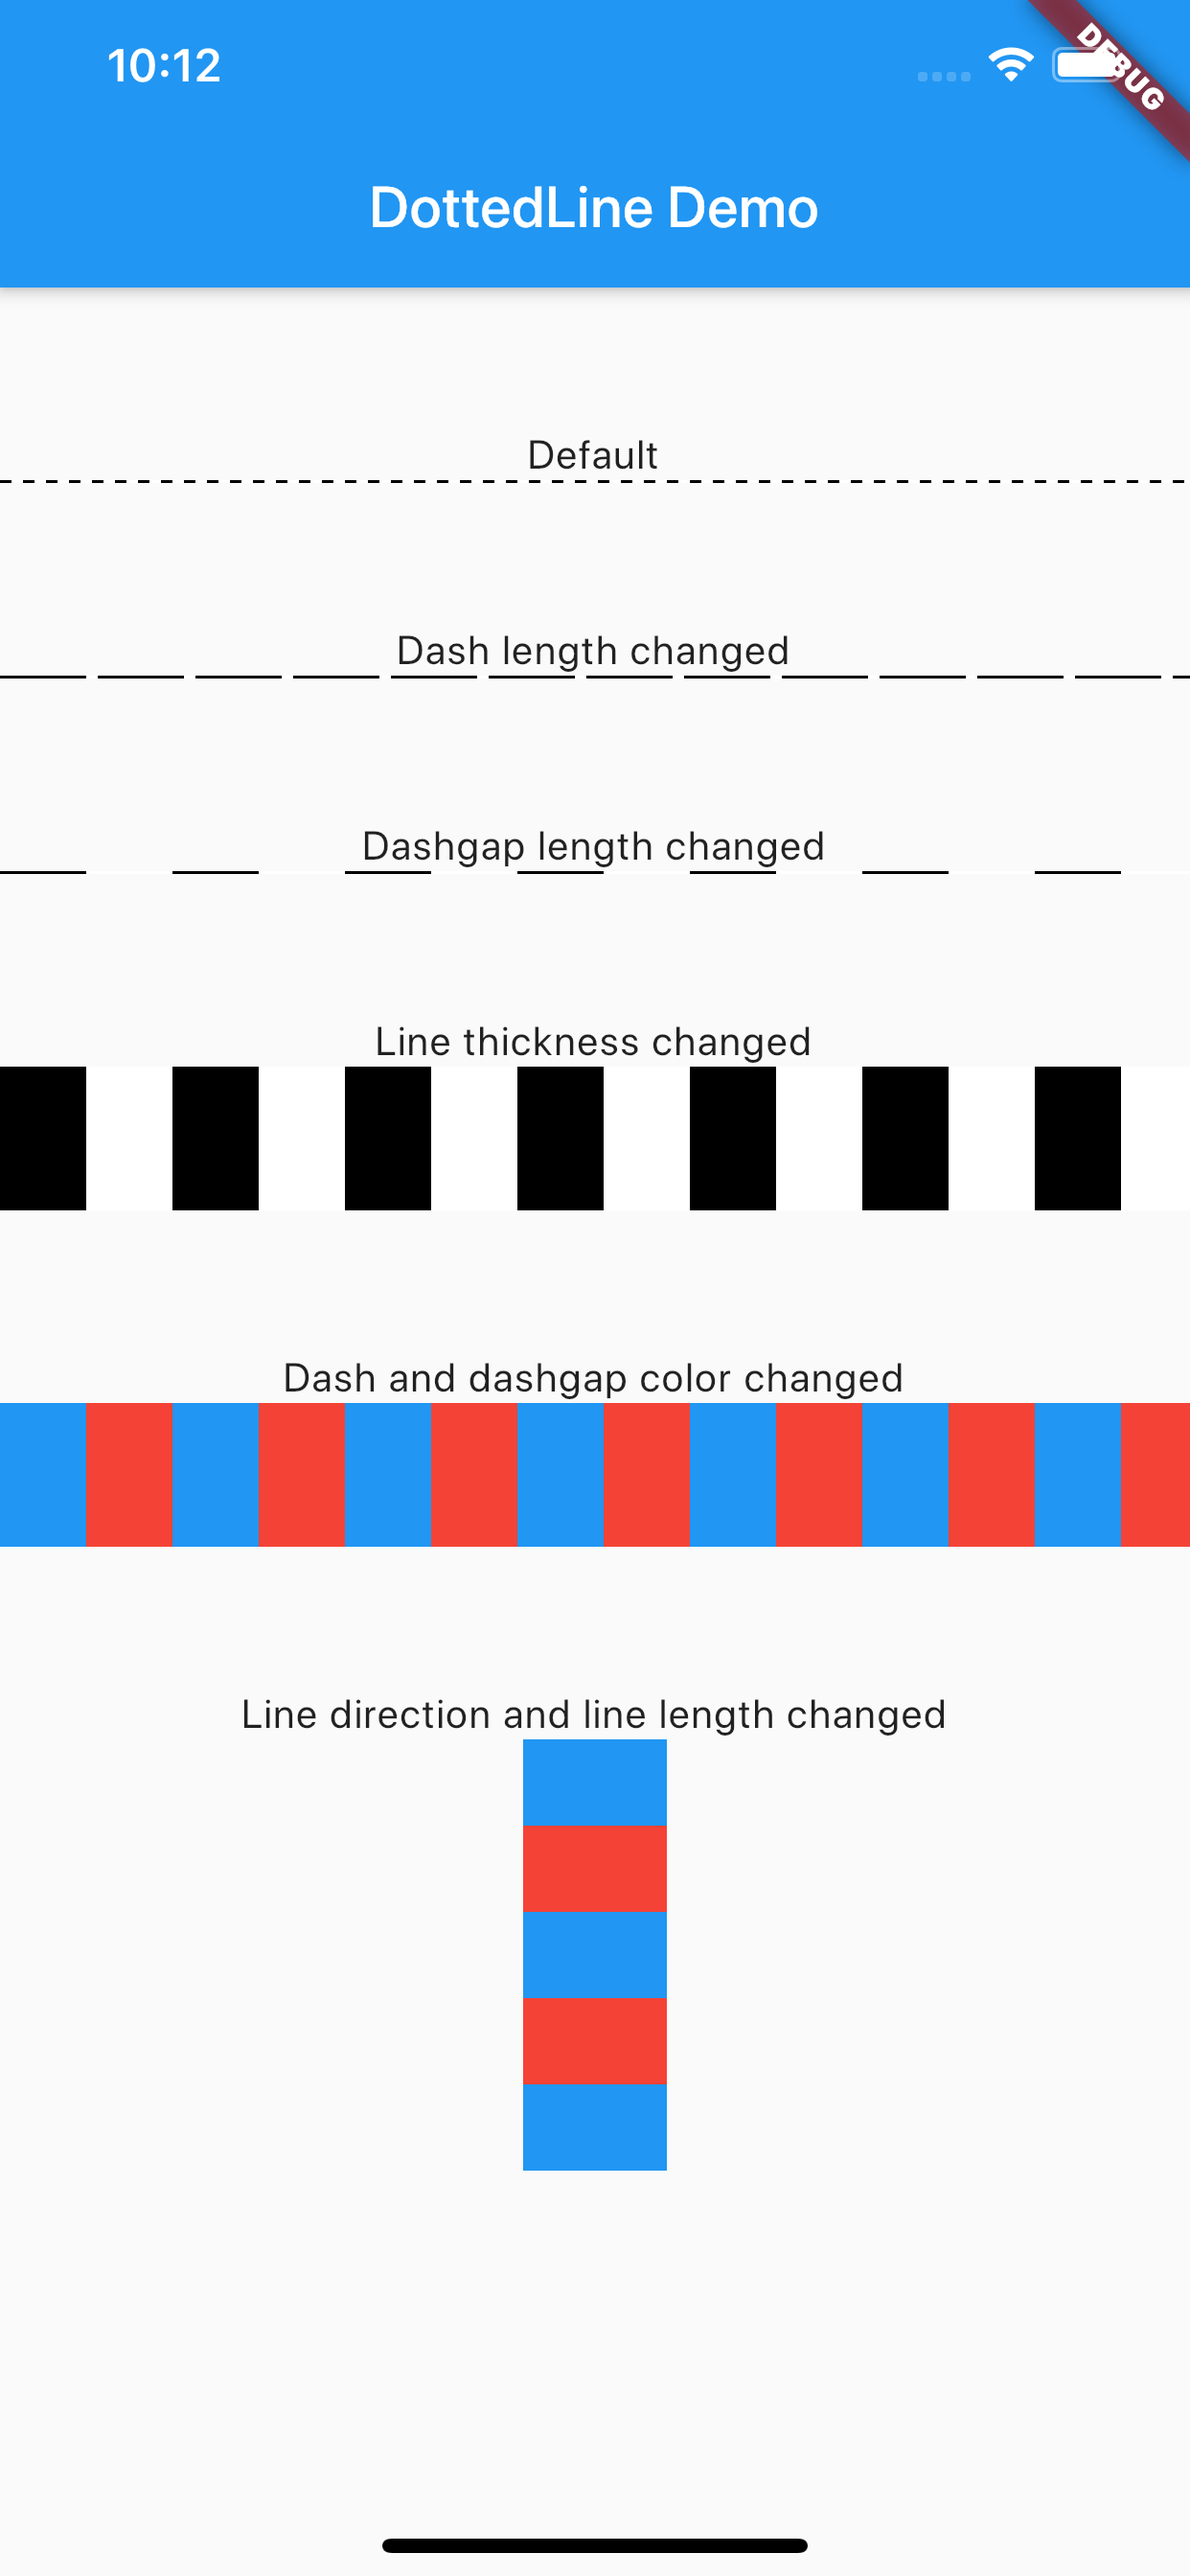
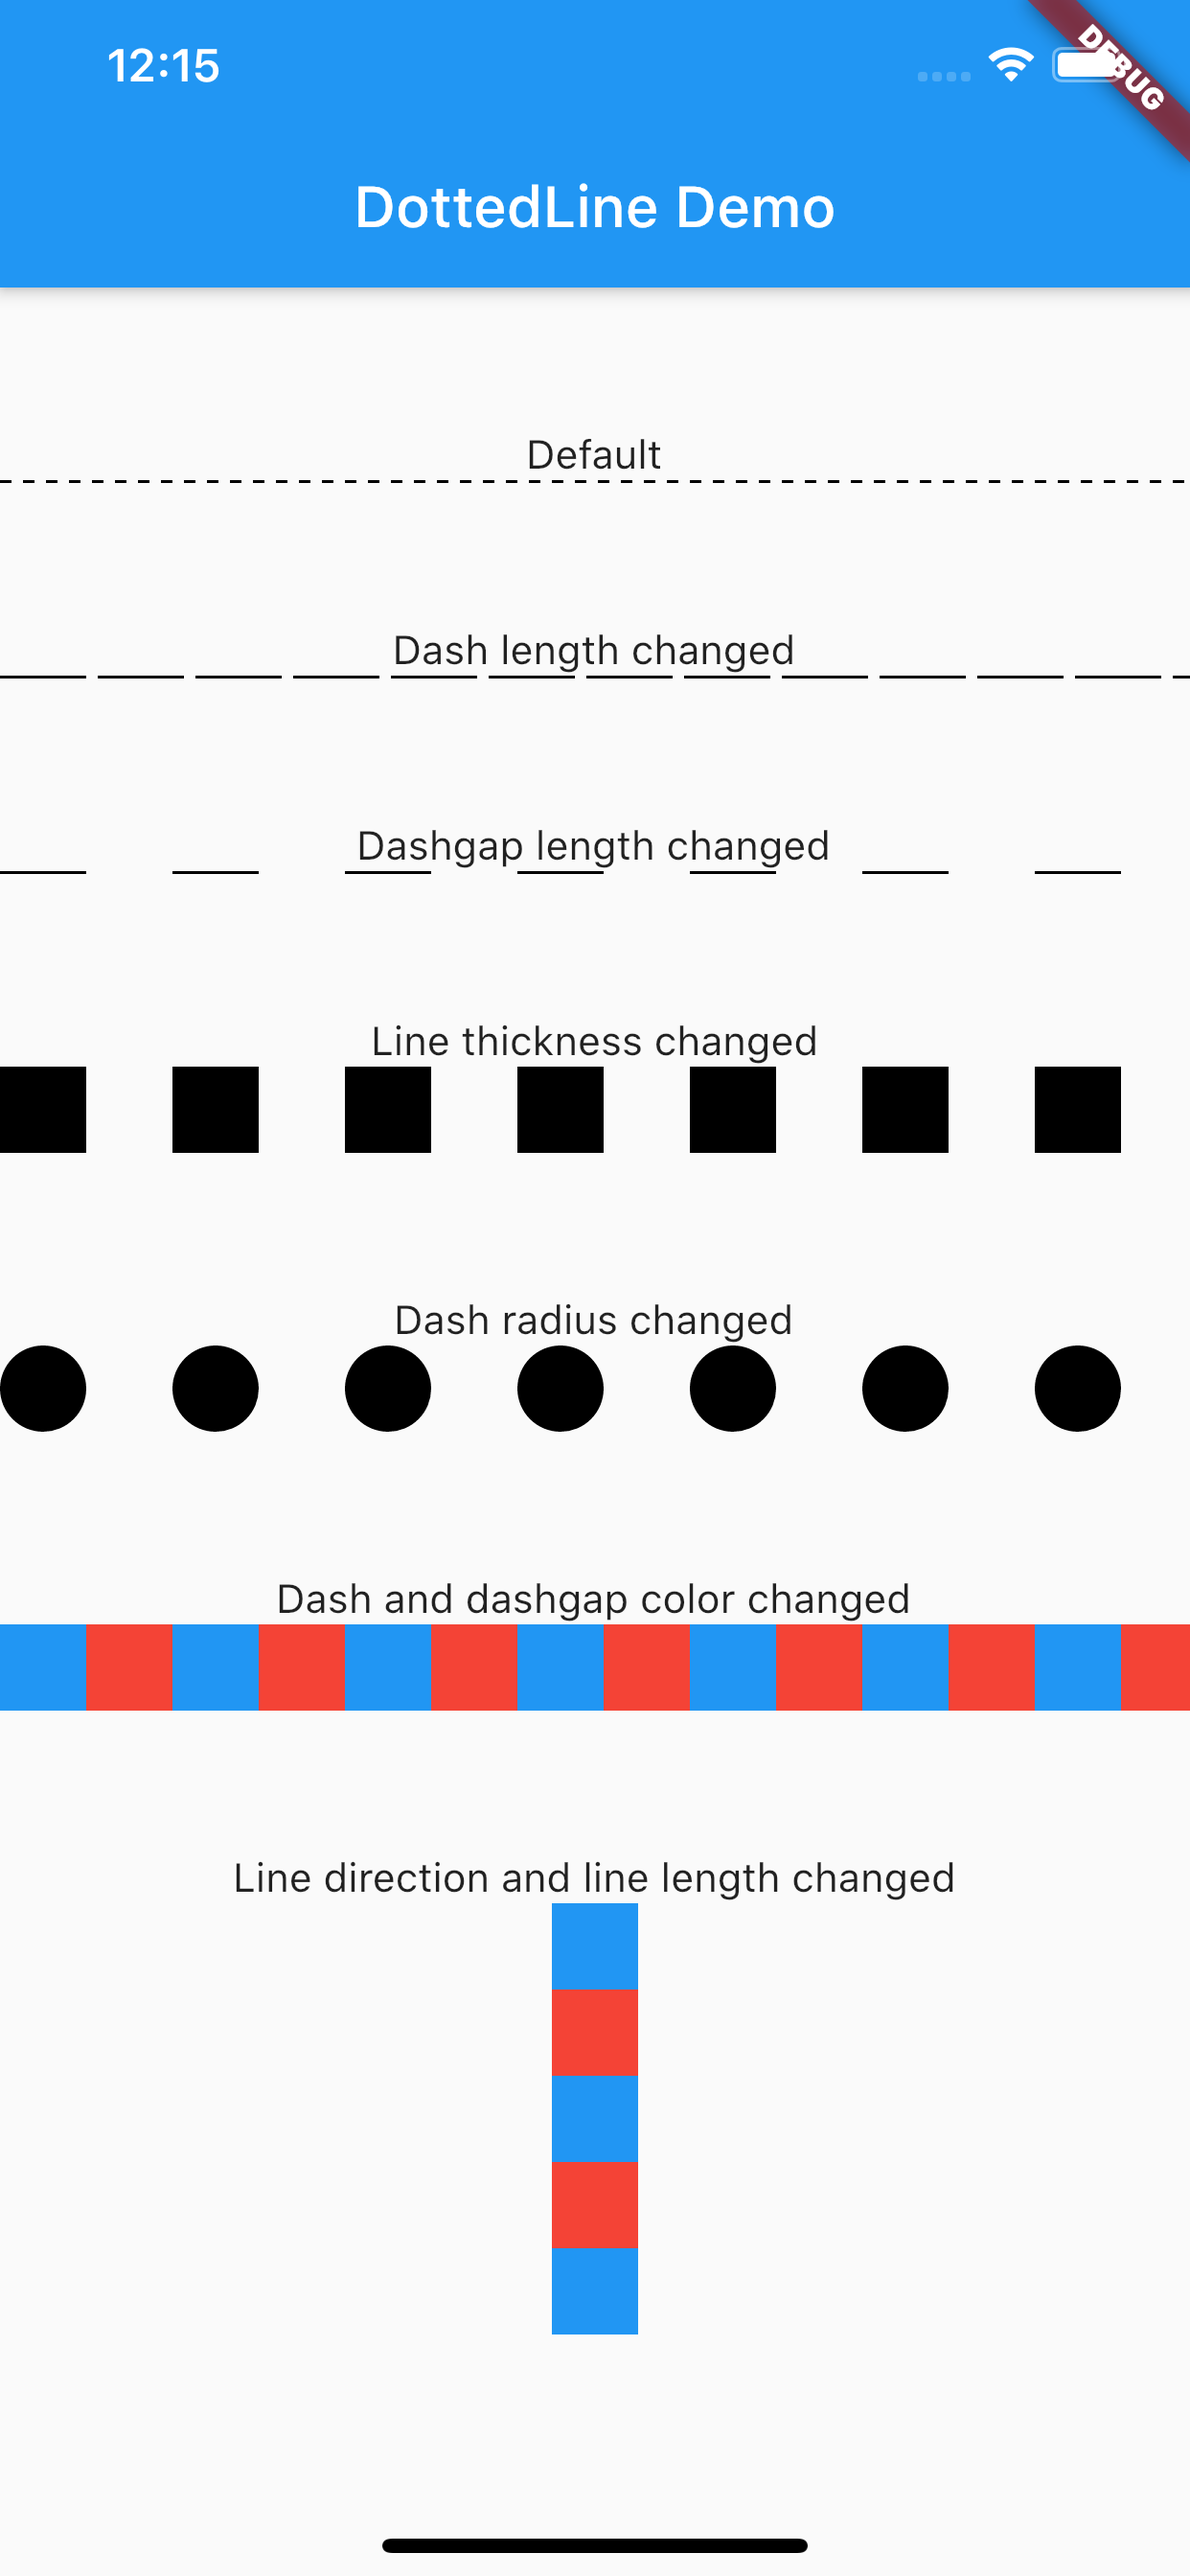
Add new parameters

diff --git a/example/lib/main.dart b/example/lib/main.dart
@@ -27,45 +27,55 @@ class _MyHomePageState extends State<_MyHomePage> {
     final space = SizedBox(height: 50);
     return Scaffold(
       appBar: AppBar(title: Text(_TITLE)),
-      body: Column(
-        children: <Widget>[
-          space,
-          Text("Default"),
-          DottedLine(),
-          space,
-          Text("Dash length changed"),
-          DottedLine(dashLength: 30),
-          space,
-          Text("Dashgap length changed"),
-          DottedLine(dashLength: 30, dashGapLength: 30),
-          space,
-          Text("Line thickness changed"),
-          DottedLine(
-            dashLength: 30,
-            dashGapLength: 30,
-            lineThickness: 50,
-          ),
-          space,
-          Text("Dash and dashgap color changed"),
-          DottedLine(
-            dashLength: 30,
-            dashGapLength: 30,
-            lineThickness: 50,
-            dashColor: Colors.blue,
-            dashGapColor: Colors.red,
-          ),
-          space,
-          Text("Line direction and line length changed"),
-          DottedLine(
-            dashLength: 30,
-            dashGapLength: 30,
-            lineThickness: 50,
-            dashColor: Colors.blue,
-            dashGapColor: Colors.red,
-            direction: Axis.vertical,
-            lineLength: 150,
-          ),
-        ],
+      body: SingleChildScrollView(
+        child: Column(
+          children: <Widget>[
+            space,
+            Text("Default"),
+            DottedLine(),
+            space,
+            Text("Dash length changed"),
+            DottedLine(dashLength: 30),
+            space,
+            Text("Dash gap length changed"),
+            DottedLine(dashLength: 30, dashGapLength: 30),
+            space,
+            Text("Line thickness changed"),
+            DottedLine(
+              dashLength: 30,
+              dashGapLength: 30,
+              lineThickness: 30,
+            ),
+            space,
+            Text("Dash radius changed"),
+            DottedLine(
+              dashLength: 30,
+              dashGapLength: 30,
+              lineThickness: 30,
+              dashRadius: 16,
+            ),
+            space,
+            Text("Dash and dash gap color changed"),
+            DottedLine(
+              dashLength: 30,
+              dashGapLength: 30,
+              lineThickness: 30,
+              dashColor: Colors.blue,
+              dashGapColor: Colors.red,
+            ),
+            space,
+            Text("Line direction and line length changed"),
+            DottedLine(
+              dashLength: 30,
+              dashGapLength: 30,
+              lineThickness: 30,
+              dashColor: Colors.blue,
+              dashGapColor: Colors.red,
+              direction: Axis.vertical,
+              lineLength: 150,
+            ),
+          ],
+        ),
       ),
     );
   }

diff --git a/lib/dotted_line.dart b/lib/dotted_line.dart
@@ -10,7 +10,9 @@ class DottedLine extends StatelessWidget {
     this.dashLength = 4.0,
     this.dashColor = Colors.black,
     this.dashGapLength = 4.0,
-    this.dashGapColor = Colors.white,
+    this.dashGapColor = Colors.transparent,
+    this.dashRadius = 0.0,
+    this.dashGapRadius = 0.0,
   });
 
   final Axis direction;
@@ -19,9 +21,11 @@ class DottedLine extends StatelessWidget {
 
   final double dashLength;
   final Color dashColor;
+  final double dashRadius;
 
   final double dashGapLength;
   final Color dashGapColor;
+  final double dashGapRadius;
 
   @override
   Widget build(BuildContext context) {
@@ -43,17 +47,23 @@ class DottedLine extends StatelessWidget {
 
   Widget _buildDash() {
     return Container(
+      decoration: BoxDecoration(
+        color: dashColor,
+        borderRadius: BorderRadius.circular(dashRadius),
+      ),
       width: direction == Axis.horizontal ? dashLength : lineThickness,
       height: direction == Axis.vertical ? dashLength : lineThickness,
-      color: dashColor,
     );
   }
 
   Widget _buildDashGap() {
     return Container(
+      decoration: BoxDecoration(
+        color: dashGapColor,
+        borderRadius: BorderRadius.circular(dashGapRadius),
+      ),
       width: direction == Axis.horizontal ? dashGapLength : lineThickness,
       height: direction == Axis.vertical ? dashGapLength : lineThickness,
-      color: dashGapColor,
     );
   }
 }

diff --git a/README.md b/README.md
@@ -6,15 +6,17 @@ This package allows you to draw dotted lines with Flutter.
 
 # Usage
 
-| Parameter         | Default         | Description                              |
-| ----------------- | :-------------: | ---------------------------------------: |
-| **direction**     | Axis.horizontal | The direction of the entire dotted line. |
-| **lineLength**    | double.infinity | The length of the entire dotted line.    |
-| **lineThickness** | 1.0             | The thickness of the entire dotted line. |
-| **dashLength**    | 4.0             | The length of the dash.                  |
-| **dashColor**     | Colors.black    | The color of the dash.                   |
-| **dashGapLength** | 4.0             | The length of the dash gap.              |
-| **dashGapColor**  | Colors.white    | The color of the dash gap.               |
+| Parameter         | Default            | Description                              |
+| ----------------- | :----------------: | ---------------------------------------: |
+| **direction**     | Axis.horizontal    | The direction of the entire dotted line. |
+| **lineLength**    | double.infinity    | The length of the entire dotted line.    |
+| **lineThickness** | 1.0                | The thickness of the entire dotted line. |
+| **dashLength**    | 4.0                | The length of the dash.                  |
+| **dashColor**     | Colors.black       | The color of the dash.                   |
+| **dashRadius**    | 0.0                | The radius of the dash.                  |
+| **dashGapLength** | 4.0                | The length of the dash gap.              |
+| **dashGapColor**  | Colors.transparent | The color of the dash gap.               |
+| **dashGapRadius** | 0.0                | The radius of the dash gap.              |
 
 This can be used without parameters.
 
@@ -35,8 +37,10 @@ DottedLine(
   lineThickness: 1.0,
   dashLength: 4.0,
   dashColor: Colors.black,
+  dashRadius: 0.0,
   dashGapLength: 4.0,
-  dashGapColor: Colors.white,
+  dashGapColor: Colors.transparent,
+  dashGapRadius: 0.0,
 )
 ```
 

diff --git a/CHANGELOG.md b/CHANGELOG.md
@@ -1,3 +1,9 @@
+## 1.1.0
+
+* Add `dashRadius` and `dashGapRadius` parameters.
+* Change the default dash gap color from `Colors.white` to `Colors.transparent`.
+* Change `README.md` and the sample code.
+
 ## 1.0.3
 
 * Change the sample code.
